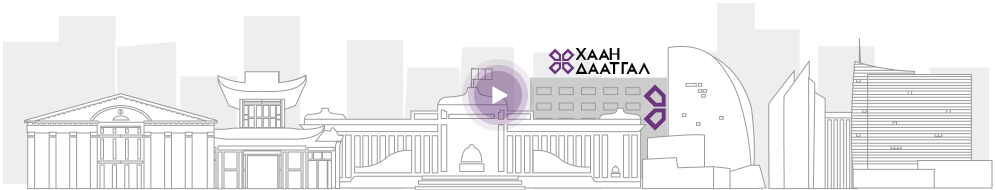
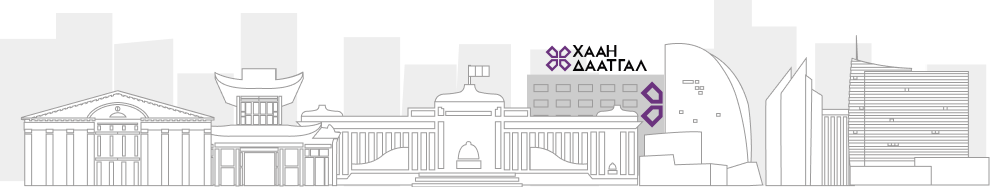
fix header button

Changed region(s): [[0.0, 0.2139, 1.0, 1.0]]

diff --git a/src/components/layouts/header.tsx b/src/components/layouts/header.tsx
@@ -15,12 +15,12 @@ import {
 } from "@/assets";
 import { motion } from "framer-motion";
 import { useRouter } from "next/navigation";
-import { usePathname } from 'next/navigation'
+import { usePathname } from "next/navigation";
 import { clear } from "console";
 
 const variants = {
-  open: { x: 0, transition: { duration: 0.3 } },
-  closed: { x: "34.4vw", transition: { duration: 0.3 } },
+  open: { x: 0, transition: { duration: 0.3, bounce: 0 } },
+  closed: { x: "34.4vw", transition: { duration: 0.3, bounce: 0 } },
 };
 
 interface HeaderProps {
@@ -64,6 +64,7 @@ export const Header: React.FC<HeaderProps> = ({ locale, setLocale }) => {
   return (
     <>
       <HStack
+        zIndex={10}
         position={"fixed"}
         justify="space-between"
         align="center"
@@ -73,7 +74,7 @@ export const Header: React.FC<HeaderProps> = ({ locale, setLocale }) => {
         width={"100vw"}
         backgroundColor={"white"}
       >
-        <Box onClick={pushHome}>
+        <Box onClick={pushHome} cursor={"pointer"}>
           <MainLogo />
         </Box>
         <HStack
@@ -82,13 +83,18 @@ export const Header: React.FC<HeaderProps> = ({ locale, setLocale }) => {
           fontWeight={600}
           color="#66377B"
         >
-          <Text fontWeight={600} fontSize={16}>
+          <Text
+            fontWeight={600}
+            fontSize={16}
+            cursor={"pointer"}
+            _hover={{ color: "#DD005C" }}
+          >
             Иргэд
           </Text>
-          <Text fontWeight={600} fontSize={16}>
+          <Text fontWeight={600} fontSize={16} cursor={"pointer"} _hover={{ color: "#DD005C" }}>
             Байгууллага
           </Text>
-          <Text fontWeight={600} fontSize={16}>
+          <Text fontWeight={600} fontSize={16} cursor={"pointer"} _hover={{ color: "#DD005C" }}>
             Нөхөн төлбөр
           </Text>
           <Text
@@ -98,6 +104,7 @@ export const Header: React.FC<HeaderProps> = ({ locale, setLocale }) => {
             onClick={pushAbout}
             display={"flex"}
             color={path === "about" ? "#DD005C" : ""}
+            _hover={{ color: "#DD005C" }}
           >
             {path === "about" ? <Box marginRight={"3px"}>•</Box> : ""}
             Бидний тухай
@@ -107,6 +114,7 @@ export const Header: React.FC<HeaderProps> = ({ locale, setLocale }) => {
             fontSize={16}
             cursor={"pointer"}
             onClick={toggleMain}
+            _hover={{ color: "#DD005C" }}
           >
             Холбоо барих
           </Text>
@@ -129,10 +137,11 @@ export const Header: React.FC<HeaderProps> = ({ locale, setLocale }) => {
         id="my-modal"
         display={showMain ? "flex" : "none"}
         justifyContent={"flex-end"}
-        onClick={toggleMain}
       >
+        <Box width={"100vw"} height={"100vh"} onClick={toggleMain} zIndex={1} position={"absolute"}/>
         <motion.div
           style={{
+            zIndex: 2,
             width: "34.4vw",
             height: "100vh",
             backgroundColor: "white",

diff --git a/src/subsets/about/about-company/AboutCompanyDesc.tsx b/src/subsets/about/about-company/AboutCompanyDesc.tsx
@@ -1,6 +1,7 @@
-import { Box, Image } from "@chakra-ui/react";
+import { Box, Icon, Image } from "@chakra-ui/react";
 import React from "react";
 import dummyImage from "../../../assets/pics/about-tumbnail.png";
+import { IconPlay } from "@/assets";
 
 type Props = {};
 
@@ -33,12 +34,21 @@ export const AboutCompanyDesc = ({}: Props) => {
           байгуулагдсан цагаас хойш Монголын даатгалын зах зээлд тогтвортой үйл
           ажиллагаа явуулж байна.
         </Box>
-        <Box
-          display={"flex"}
-          justifyContent={"center"}
-          alignItems={"center"}
-        >
-            <Image width={'996px'} height={"190px"} src={`${dummyImage.src}`} alt=""/>
+        <Box display={"flex"} justifyContent={"center"} alignItems={"center"}>
+          <Box
+            width={"69.2vw"}
+            height={"22.78vh"}
+            backgroundPosition={"center"}
+            backgroundSize={"contain"}
+            backgroundRepeat={"no-repeat"}
+            backgroundImage={dummyImage.src}
+            display={"flex"}
+            justifyContent={"center"}
+            alignItems={"center"}
+          >
+            <IconPlay />
+          </Box>
+          {/* <Image width={'996px'} height={"190px"} src={`${dummyImage.src}`} alt=""/> */}
         </Box>
       </Box>
     </Box>

diff --git a/src/assets/svg/index.tsx b/src/assets/svg/index.tsx
@@ -10,15 +10,16 @@ export * from "./cancelIcon";
 export * from "./icon-sidebar1";
 export * from "./icon-sidebar2";
 export * from "./icon-sidebar3";
-export * from './homeCarousel_1'
-export * from "./icon-location"
-export * from "./icon-phone"
-export * from "./icon-mail"
-export * from "./icon-w3w"
-export * from './icon-vision_1'
-export * from "./icons_vision_2"
-export * from "./icon-afaq"
-export * from "./icon-excellence"
-export * from "./icon-globalBank"
-export * from "./icon-shareholder"
-export * from './aboutMainSvg'
+export * from "./homeCarousel_1";
+export * from "./icon-location";
+export * from "./icon-phone";
+export * from "./icon-mail";
+export * from "./icon-w3w";
+export * from "./icon-vision_1";
+export * from "./icons_vision_2";
+export * from "./icon-afaq";
+export * from "./icon-excellence";
+export * from "./icon-globalBank";
+export * from "./icon-shareholder";
+export * from "./aboutMainSvg";
+export * from "./icon-play";

diff --git a/src/assets/svg/icon-play.tsx b/src/assets/svg/icon-play.tsx
@@ -1,0 +1,13 @@
+export const IconPlay = () => (
+  <svg
+    xmlns="http://www.w3.org/2000/svg"
+    width={16}
+    height={18}
+    fill="none"
+  >
+    <path
+      fill="#fff"
+      d="M14.913 8.431a1 1 0 0 1 0 1.732L1.847 17.707a1 1 0 0 1-1.5-.866V1.754a1 1 0 0 1 1.5-.866L14.913 8.43Z"
+    />
+  </svg>
+)
